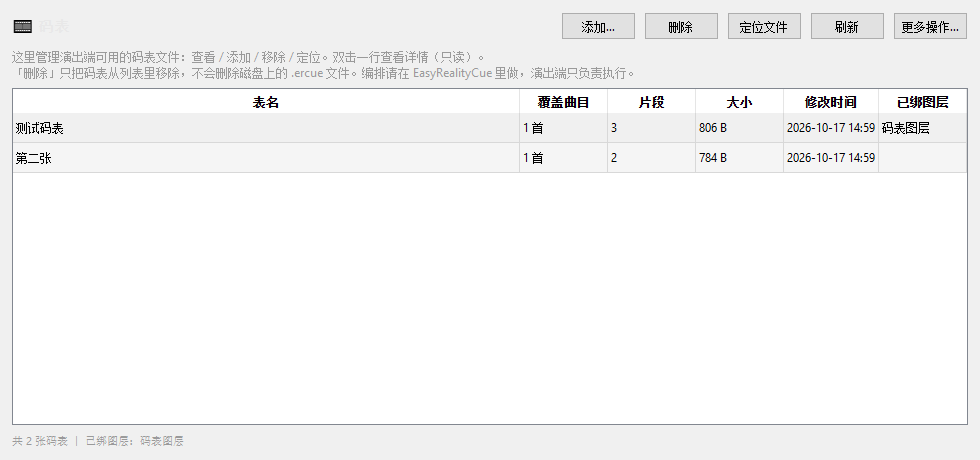
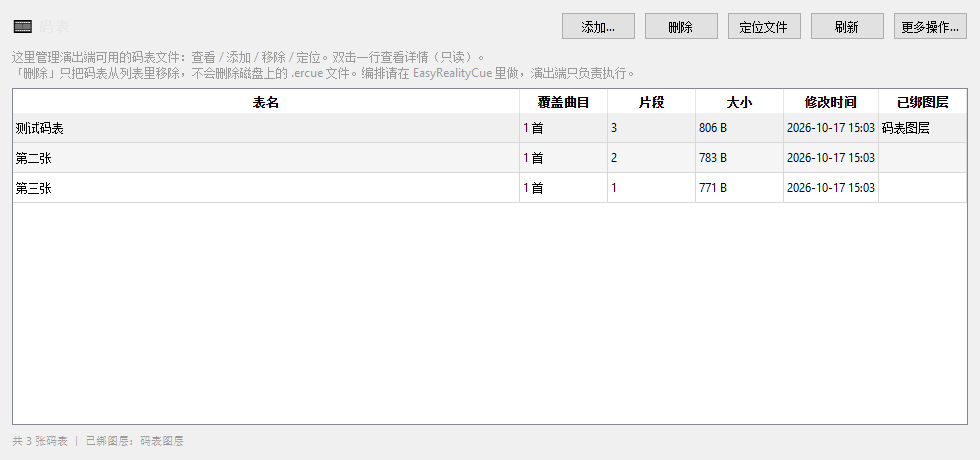
fix(cue): 按 lead 复核意见加固码表页/下拉的三处边界
① 片段列：`cuesheet.load()` 抛异常（包损坏/被改坏/没权限）
   ⇒ `sheet_frag_count()` 返回 -1（**不再冒充 0**），该行显示「—」，
   列表照常列出、其它行不受影响。缓存仍按 (mtime,size)，坏包也会被记住不反复读。
② 下拉文本：`cuesheet_id` 先 strip —— 只有空白的脏数据当成"没绑"显示「（无码表）」；
   绑了一张不在索引里的表时按「去扩展名→文件名→原串→（已绑定的码表）」兜底，
   **绝不允许当前项出现空文本**（空文本会被读成"没绑"，与「（无码表）」混淆）。
③ 「导入新码表…」导入成功后**自动选中刚导入的那张**（按 abspath 精确匹配选项），
   用户不用再点第二次；取消选择则把下拉还原成当前绑定。

验证：新增 3 组断言（坏包不崩/片段列「—」、未绑与空名表可区分、导入后自动选中）
+ 补 2 张 lead 指定截图：page4_layer_combo_unbound.png（未绑「（无码表）」）、
ui_more_menu_no_cue.png（展开的「⋯ 更多」，里面没有码表项）。
全量回归 15 项全绿（含 pixel_diff_guard 11 场景 0 字节差异、seek_e2e）。

diff --git a/tools/cue_page_test.py b/tools/cue_page_test.py
@@ -419,6 +419,96 @@ def main():
           cmb.currentText())
     check("卸下后下拉隐藏（普通图层布局不变）", cmb.isHidden(), cmb.isHidden())
 
+    # ================= ⑫ 下拉文本：未绑 / 名字空白的表 都要看得出区别 =================
+    print("\n⑫ 下拉文本防御：绝不能出现空文本（否则「没绑」和「绑了空名表」混不起来）")
+    lay_u = engine.Layer("未装表")
+    lay_u.is_cuesheet = True               # 是码表图层，但没装表
+    lay_u.cuesheet_id = ""
+    lay_v = engine.Layer("空名表")
+    lay_v.is_cuesheet = True
+    lay_v.cuesheet_id = "   "              # 脏数据：只有空白
+    eng.layers = [lay_u, lay_v, engine.Layer("普通层")]
+    lsp2 = panels.LayerStackPanel(po)
+    lsp2.rebuild()
+    c_u = lsp2.rows[0][0]._cmb_cue
+    c_v = lsp2.rows[1][0]._cmb_cue
+    check("未装表 ⇒ 显示「（无码表）」", c_u.currentText() == "（无码表）", c_u.currentText())
+    check("下拉文本非空", bool(c_u.currentText().strip()))
+    check("空白 cuesheet_id 也不显示成空", bool(c_v.currentText().strip()),
+          repr(c_v.currentText()))
+    check("空白 cuesheet_id ⇒ 归为「（无码表）」", c_v.currentText() == "（无码表）",
+          c_v.currentText())
+    ok_s, path_s = shot(lsp2, "page4_layer_combo_unbound.png", 940, 240)
+    check("截图已落盘 page4_layer_combo_unbound.png（未绑「（无码表）」）", ok_s, path_s)
+
+    # ================= ⑬ 「导入新码表…」⇒ 自动选中刚导入的那张 =================
+    print("\n⑬ 下拉里选「导入新码表…」⇒ 导入成功后自动选中新导入的那张")
+    pc = os.path.join(tmp, "第三张.ercue")
+    cuesheet.save(make_sheet("第三张", "第三首", n_items=1, media_name="a.mp4"), pc,
+                  app_version="2026.10.17.12")
+    eng.layers = [lay2, engine.Layer("普通层")]
+    lay2.is_cuesheet = True
+    lay2.cuesheet_id = os.path.basename(pa)
+    lsp3 = panels.LayerStackPanel(po)
+    lsp3.rebuild()
+    cmb3 = lsp3.rows[0][0]._cmb_cue
+    i_imp = [k for k in range(cmb3.count()) if cmb3.itemText(k) == "导入新码表…"]
+    check("下拉里有「导入新码表…」", bool(i_imp), [cmb3.itemText(k)
+                                                 for k in range(cmb3.count())])
+    real_open2 = panels.QFileDialog.getOpenFileNames
+    panels.QFileDialog.getOpenFileNames = staticmethod(lambda *a, **k: ([pc], ""))
+    try:
+        cmb3.setCurrentIndex(i_imp[0])
+        lsp3._on_cue_combo(0)
+    finally:
+        panels.QFileDialog.getOpenFileNames = real_open2
+    check("导入后下拉**自动选中**「第三张」", cmb3.currentText() == "第三张",
+          cmb3.currentText())
+    check("导入后下拉的 data 指向新包",
+          os.path.abspath(str(cmb3.currentData() or "")) == os.path.abspath(pc),
+          cmb3.currentData())
+    check("导入后图层 cuesheet_id = 新包名",
+          lay2.cuesheet_id == "第三张.ercue", lay2.cuesheet_id)
+    check("导入后引擎里的表 = 第三张",
+          (eng.cuesheet_status().get("title") or "") == "第三张",
+          eng.cuesheet_status().get("title"))
+
+    # ================= ⑪ 坏包防御：片段列 "—"，列表不崩 =================
+    print("\n⑪ 坏包防御：包在索引里但读不了 ⇒ 片段列「—」，列表照常列出")
+    pbad = os.path.join(tmp, "坏包.ercue")
+    cuesheet.save(make_sheet("坏包", "坏曲", n_items=2, media_name="a.mp4"), pbad,
+                  app_version="2026.10.17.12")
+    idxo2 = eng.cue_index()
+    idxo2.add(pbad)
+    idxo2.save_cfg(cfg)
+    panel.refresh()
+    n_before_bad = panel.tbl.rowCount()
+    # 索引建好之后再把包弄坏（模拟"用户硬盘上的包损坏/被覆盖"）
+    with open(pbad, "wb") as f:
+        f.write(b"\x00\x01\x02 this is not a zip \xff\xfe" * 20)
+    os.utime(pbad, None)
+    panel.refresh()
+    panel.ensure_frag_counts()
+    for _ in range(8):
+        app.processEvents()
+    names_all = [panel.tbl.item(r, 0).text() for r in range(panel.tbl.rowCount())]
+    check("坏包没有把列表搞崩（行数不减少）",
+          panel.tbl.rowCount() == n_before_bad, (n_before_bad, panel.tbl.rowCount()))
+    row_bad = names_all.index("坏包") if "坏包" in names_all else -1
+    check("坏包那一行还在（表名正常显示）", row_bad >= 0, names_all)
+    if row_bad >= 0:
+        check("坏包的片段列 = 「—」（不冒充 0）",
+              panel.tbl.item(row_bad, 2).text() == "—",
+              panel.tbl.item(row_bad, 2).text())
+        check("坏包的大小/时间列也没炸",
+              panel.tbl.item(row_bad, 3) is not None
+              and panel.tbl.item(row_bad, 4) is not None)
+    check("其他行的片段数仍正常（=3）",
+          any(panel.tbl.item(r, 2).text() == "3" for r in range(panel.tbl.rowCount())),
+          [panel.tbl.item(r, 2).text() for r in range(panel.tbl.rowCount())])
+    idxo2.remove(pbad)
+    idxo2.save_cfg(cfg)
+
     # 再绑回来，给"已绑图层"列截图
     lay2.is_cuesheet = True
     lay2.cuesheet_id = os.path.basename(pa)
@@ -430,11 +520,17 @@ def main():
 
     # ================= ③ 删除（只从列表移除，不删文件） =================
     print("\n③ 删除：从列表移除 ⇒ 行消失、磁盘文件仍在")
-    panel.tbl.selectRow(1)                       # 选「第二张」
+    r_b = next((r for r in range(panel.tbl.rowCount())
+                if panel.tbl.item(r, 0).text() == "第二张"), -1)
+    check("列表里能找到「第二张」待删", r_b >= 0)
+    if r_b >= 0:
+        panel.tbl.selectRow(r_b)                 # 按名字选，不按行号（行序会变）
     before = os.path.isfile(pb)
+    n_rows_before_del = panel.tbl.rowCount()
     panel.on_remove()
     names = [panel.tbl.item(r, 0).text() for r in range(panel.tbl.rowCount())]
-    check("列表只剩 1 行", panel.tbl.rowCount() == 1, panel.tbl.rowCount())
+    check("列表少了一行", panel.tbl.rowCount() == n_rows_before_del - 1,
+          (n_rows_before_del, panel.tbl.rowCount()))
     check("「第二张」已从列表移除", "第二张" not in names, names)
     check("磁盘上的 .ercue 仍在（未被删除）", before and os.path.isfile(pb), pb)
     panel.refresh()

diff --git a/src/panels.py b/src/panels.py
@@ -2758,7 +2758,9 @@ class LayerStackPanel(QWidget):
                 label_fn = cue_page.sheet_label
             except Exception:                                    # noqa: BLE001
                 entries = []
-            cur = str(getattr(lay, "cuesheet_id", "") or "")
+            # ⚠ strip：`cuesheet_id` 只有空白 = 脏数据 ⇒ 当成"没绑"（「（无码表）」），
+            #   绝不能让空白看起来像"绑了一张名字空白的表"
+            cur = str(getattr(lay, "cuesheet_id", "") or "").strip()
             sel = 0
             found = False
             for e in entries:
@@ -2772,10 +2774,18 @@ class LayerStackPanel(QWidget):
             # 绑着一张**不在索引里**的表（比如被手动移出列表 / 索引没建）⇒ 也要如实显示，
             # 不能假装"（无码表）"（否则用户看到的绑定状态是假的）
             if cur and not found:
-                cmb.addItem(os.path.splitext(os.path.basename(cur))[0] or cur, "__bound__")
+                # ⚠ 表名兜底链：去扩展名 → 原文件名 → 原字符串 →「（已绑定的码表）」
+                #   **绝不允许下拉出现空文本**（空文本会被读成"没绑"，与「（无码表）」混淆）
+                label = (os.path.splitext(os.path.basename(cur))[0]
+                         or os.path.basename(cur) or cur or "").strip()
+                cmb.addItem(label or T("（已绑定的码表）"), "__bound__")
                 sel = cmb.count() - 1
             cmb.addItem(T("导入新码表…"), "__import__")
             cmb.setCurrentIndex(sel if 0 <= sel < cmb.count() else 0)
+            # 最后一层保险：当前项文本为空/全空白 ⇒ 明确写成「（无码表）」，
+            # 绝不让"没绑"和"绑了一张名字空白的表"看起来一样
+            if not cmb.currentText().strip():
+                cmb.setItemText(cmb.currentIndex(), T("（无码表）"))
             # tooltip：完整表名（下拉只有 92px，长名字会被截断）
             txt = cmb.itemText(cmb.currentIndex())
             cmb.setToolTip(Tf("码表：{}（选择换表 /「（无码表）」卸下）", txt)
@@ -2806,16 +2816,27 @@ class LayerStackPanel(QWidget):
             self.refresh_playing()
             self._refresh_cue_page()
             return
+        new_path = ""
         if data == "__import__":
             paths, _ = QFileDialog.getOpenFileNames(
                 self, T("导入码表"), "", T("码表包 (*.ercue);;所有文件 (*)"))
             if not paths:
                 self._fill_cue_combo(cmb, lay)     # 取消 ⇒ 把下拉还原成当前绑定
                 return
-            data = paths[0]
+            new_path = paths[0]
+            data = new_path
         # 换表 / 导入并绑定：**唯一实现**在 cue_ui.load_and_bind
         _ok, msg = cue_ui.load_and_bind(self.main, data, lay, parent=self)
         self._fill_cue_combo(cmb, lay)
+        # ★ 刚从「导入新码表…」进来的：**自动选中刚导入的那张**（否则用户还得再点一次）
+        if new_path:
+            want = os.path.abspath(new_path)
+            for k in range(cmb.count()):
+                if os.path.abspath(str(cmb.itemData(k) or "")) == want:
+                    cmb.blockSignals(True)
+                    cmb.setCurrentIndex(k)
+                    cmb.blockSignals(False)
+                    break
         self.refresh_header(idx)
         self.refresh_playing()
         try:

diff --git a/src/cue_page.py b/src/cue_page.py
@@ -91,26 +91,32 @@ def _stat_key(path):
 
 
 def sheet_frag_count(path):
-    """这张码表一共有多少个片段（全曲所有层的 items 合计）。读不了返回 0。
+    """这张码表一共有多少个片段（全曲所有层的 items 合计）。
+
+    返回：
+      · `>= 0` = 真实片段数（`0` 是合法的"空表"）
+      · `-1`   = **读不了**（包损坏 / 被删 / 没权限）⇒ 界面显示 "—"，**绝不抛异常**
 
     ⚠ 只读**一次**并缓存：键是 `(mtime, size)`，包没变就直接返回缓存值。
       码表可能有上千片段，全量 `cuesheet.load()` 几十~几百 ms ⇒ 绝不每次刷新都读。
+    ⚠ **防御**：`load()` 抛异常时把这个包记成 `-1`（不冒充 0）——
+      否则一行坏包会让用户以为"这张表没有片段"，或者把整个列表带崩。
     """
     p = os.path.abspath(str(path or ""))
     key = _stat_key(p)
     if key is None:
-        return 0
+        return -1
     hit = _FRAG_CACHE.get(p)
     if hit is not None and hit[0] == key:
         return int(hit[1])
-    n = 0
     try:
         sheet, _info = cuesheet.load(p)
+        n = 0
         for t in (getattr(sheet, "tracks", None) or []):
             for ly in (getattr(t, "layers", None) or []):
                 n += len(getattr(ly, "items", None) or [])
     except Exception:                                            # noqa: BLE001
-        n = 0
+        n = -1                      # 读不了 ⇒ 记成"未知"，不冒充 0
     _FRAG_CACHE[p] = (key, n)
     return n
 
@@ -507,13 +513,14 @@ class CueSheetPanel(QWidget):
 
     @staticmethod
     def _frag_text(path, alive):
-        """「片段」列文本：只读缓存，未算过就是 "—"（见 refresh 的说明）。"""
+        """「片段」列文本：只读缓存，未算过 / 读不了都是 "—"（见 refresh 的说明）。"""
         if not alive:
             return "—"
         key = _stat_key(path)
         hit = _FRAG_CACHE.get(path)
         if hit is not None and key is not None and hit[0] == key:
-            return str(int(hit[1]))
+            n = int(hit[1])
+            return str(n) if n >= 0 else "—"     # -1 = 包读不了 ⇒ 未知
         return "—"
 
     def ensure_frag_counts(self):

diff --git a/tools/cue_page_ui_test.py b/tools/cue_page_ui_test.py
@@ -190,6 +190,21 @@ def main():
     print("      更多菜单 = %s" % acts)
     check("更多菜单里没有任何含「码表」的项", not any("码表" in a for a in acts), acts)
 
+    # ---------------- ⑤b 展开菜单截图（证据） ----------------
+    os.makedirs(SHOT_DIR, exist_ok=True)
+    w.switch_page(0, save=False)
+    for _ in range(10):
+        app.processEvents()
+    w._more_menu.popup(
+        w.btn_more.mapToGlobal(w.btn_more.rect().bottomLeft()))
+    for _ in range(14):
+        app.processEvents()
+    pm = w._more_menu.grab()
+    w._more_menu.close()
+    p_menu = os.path.join(SHOT_DIR, "ui_more_menu_no_cue.png")
+    check("截图已落盘 ui_more_menu_no_cue.png（展开的「⋯ 更多」）",
+          pm.save(p_menu, "PNG"), p_menu)
+
     # ---------------- ⑥ 整幅截图 ----------------
     print("\n⑥ 整幅截图")
     os.makedirs(SHOT_DIR, exist_ok=True)

diff --git a/src/i18n_map.py b/src/i18n_map.py
@@ -1204,6 +1204,7 @@ ZH2EN.update({
         "After you confirm, you'll pick which cue sheet to apply — if you haven't "
         "imported one yet,\nuse “Add…” on the “Cue Sheets” tab first.",
     "（无码表）": "(no cue sheet)",
+    "（已绑定的码表）": "(bound cue sheet)",
     "导入新码表…": "Import new cue sheet…",
     "码表：（无码表）—— 选一张表让本图层由码表接管":
         "Cue sheet: (none) — pick one to let this layer be driven by it",
